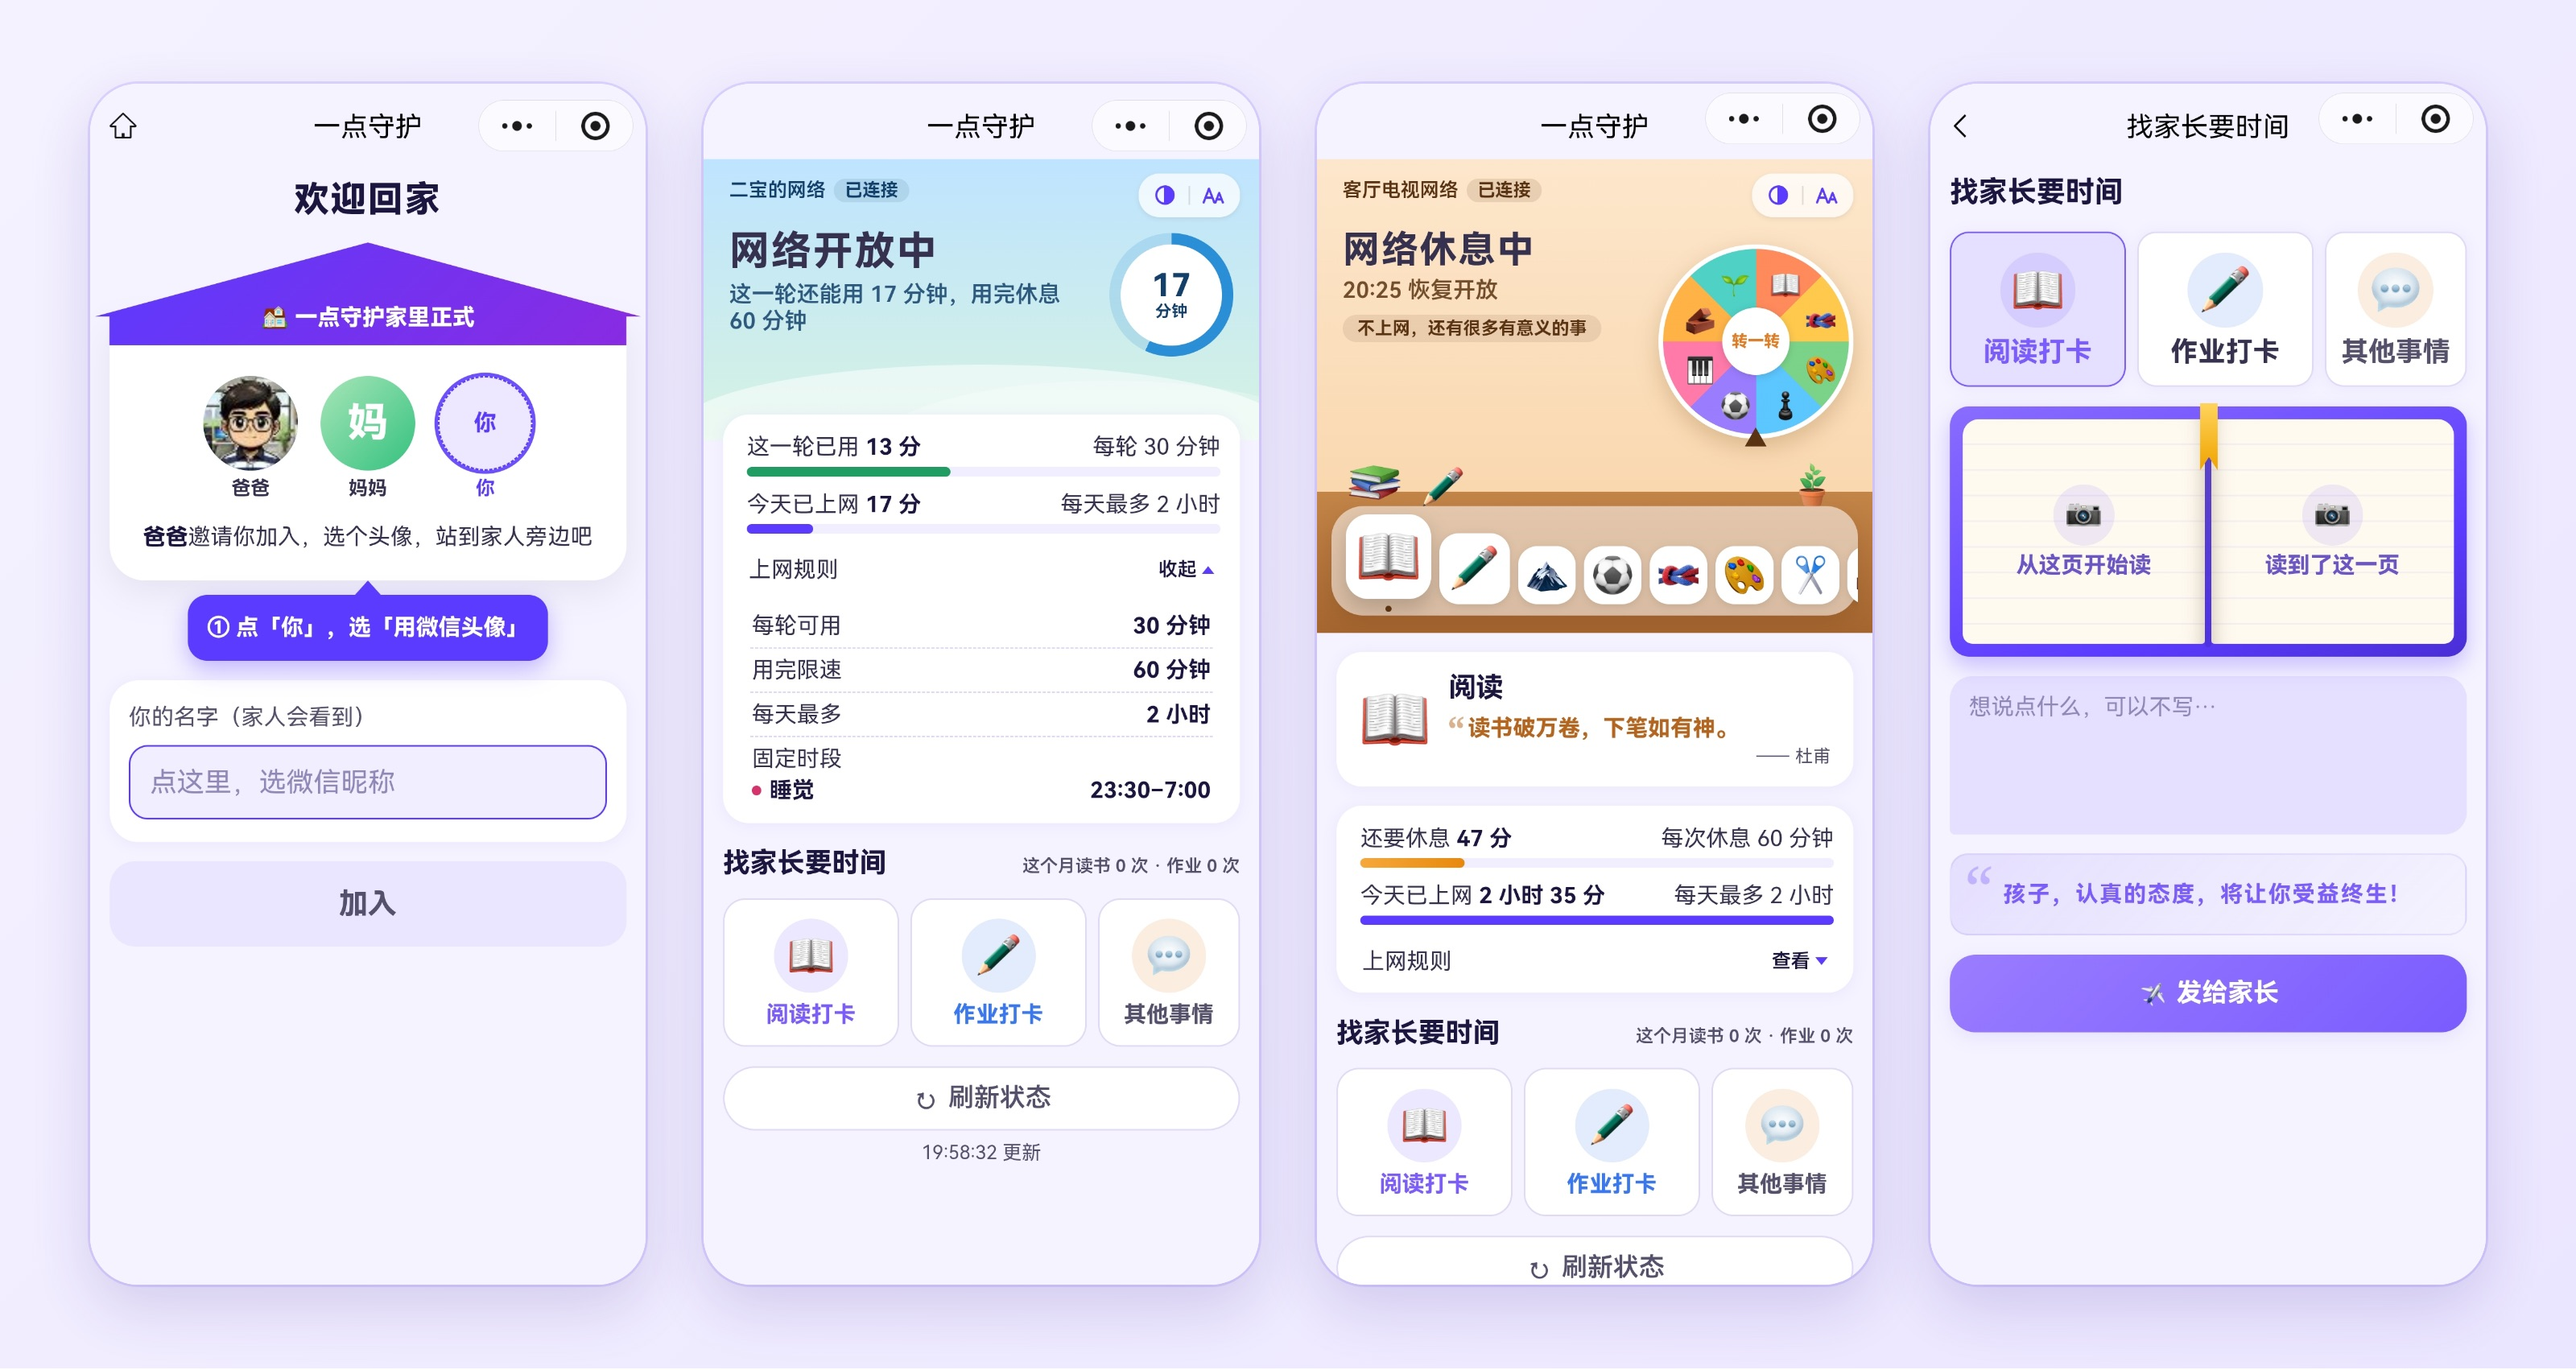
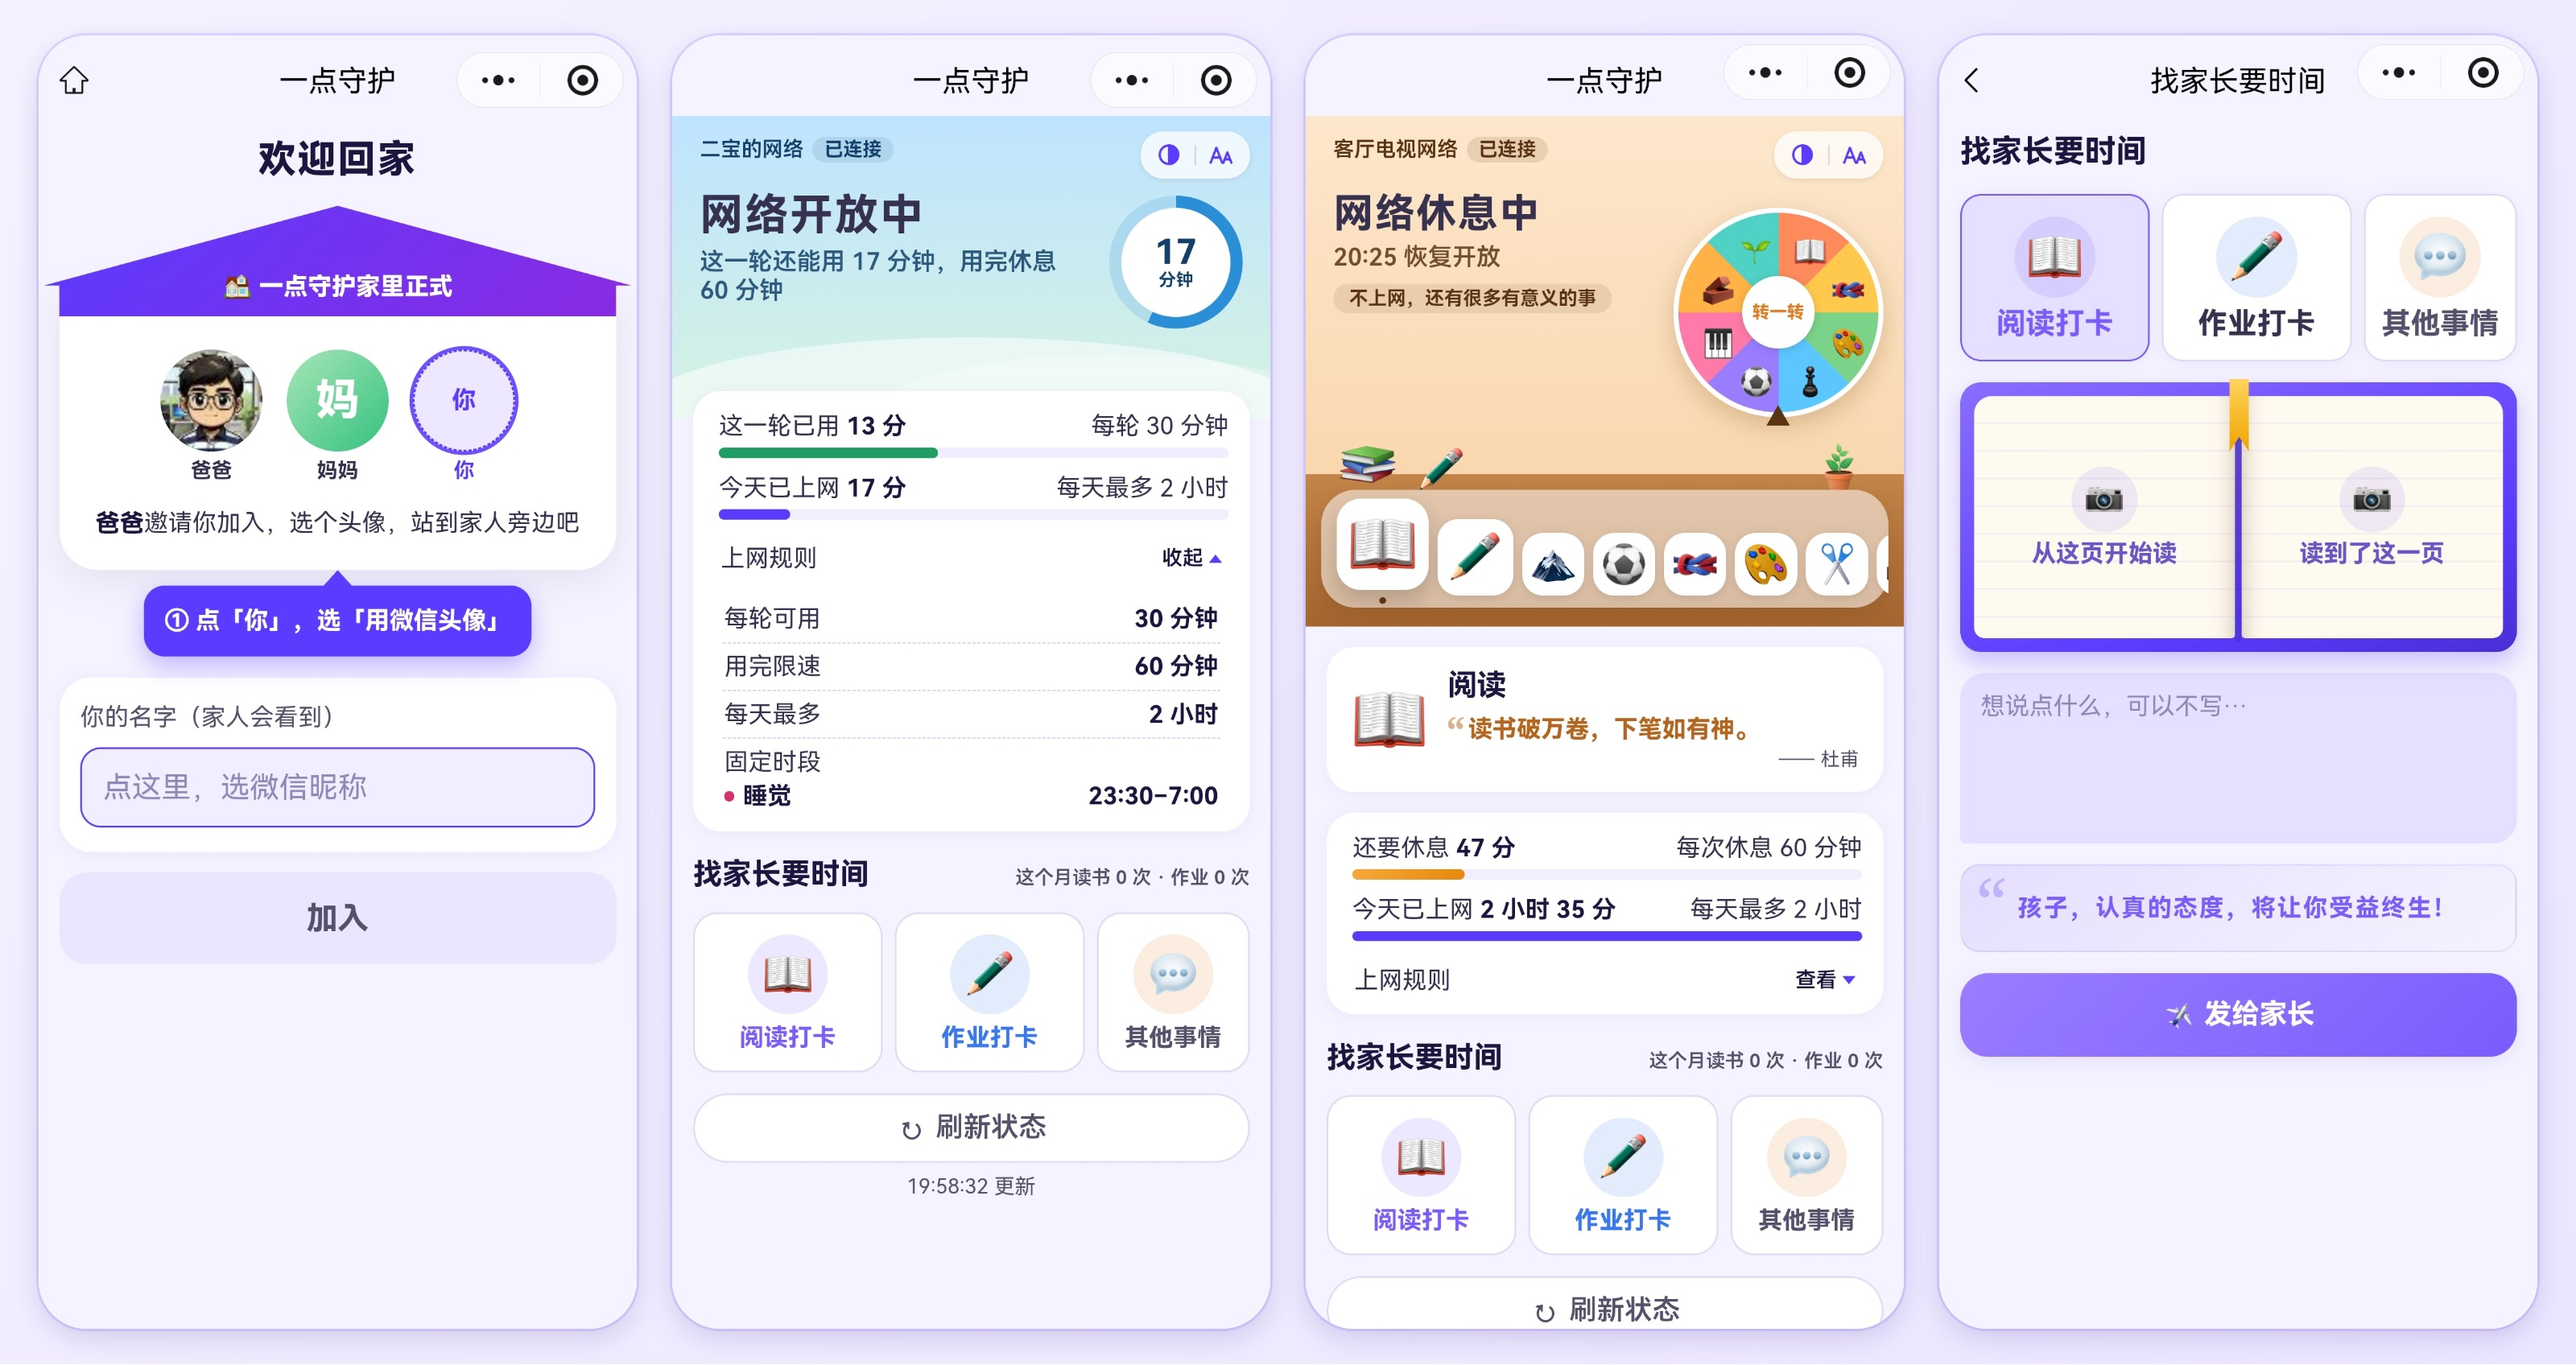
install.sh：限时计时进程不占输出管道（| tee、ssh 远程执行装完不再白等）；快速开始链接改 quick-start.html；README 在家直连说法；更新界面截图

diff --git a/README_en.md b/README_en.md
@@ -51,7 +51,7 @@ Kids can open the mini program too, to see whether their network is open or rest
 ## Peace of mind
 
 - **Time, not content**: Doti manages speed and duration only; it never looks at what kids do online.
-- **At home, no cloud involved**: at home the phone talks to the router directly. With remote management on, the cloud only receives the previous day's usage durations — no content.
+- **At home, straight to the router**: at home the phone talks to the router directly, and management actions skip the cloud; the cloud only handles sign-in, sync and the previous day's usage durations — no browsing content.
 - **WiFi passwords stay home**: parents' and kids' WiFi passwords live only on the router and your own devices.
 - **Open source, open to inspection**: the router software is this repository; anyone can check what it does.
 
@@ -72,7 +72,7 @@ The overview, detailed install and pairing steps, and how to verify the packages
 | | GitHub Pages | Faster in China |
 |---|---|---|
 | Homepage | [xautlx.github.io/doti-kids-router](https://xautlx.github.io/doti-kids-router/?lang=en) | [doti.top](https://doti.top/?lang=en) |
-| Quick Start | [xautlx.github.io/doti-kids-router/quick-start](https://xautlx.github.io/doti-kids-router/quick-start/?lang=en) | [doti.top/quick-start](https://doti.top/quick-start/?lang=en) |
+| Quick Start | [xautlx.github.io/doti-kids-router/quick-start.html](https://xautlx.github.io/doti-kids-router/quick-start.html?lang=en) | [doti.top/quick-start.html](https://doti.top/quick-start.html?lang=en) |
 
 Packages are in [Releases](../../releases) (also mirrored to the gitee repository of the same name).
 

diff --git a/README.md b/README.md
@@ -51,7 +51,7 @@
 ## 使用安心
 
 - **只管时间，不看内容**：只管网速和时长，不看孩子上网的内容。
-- **在家管理不经过云端**：在家时手机直接和路由器通信。开着远程管理时，云端每天只收到前一天的上网时长，不含上网内容。
+- **在家操作直连路由器**：在家时手机直接和路由器通信，管理操作不经过云端；云端只用于登录、同步和每天收前一天的上网时长，不含上网内容。
 - **WiFi 密码不上云**：家长和孩子的 WiFi 密码只存在家里的路由器和你们自己的设备上。
 - **程序开源可查**：路由器上的程序就是这个仓库，任何人都能检查它做了什么。
 
@@ -72,7 +72,7 @@ wget -O install.sh https://gitee.com/xautlx/doti-kids-router/raw/main/install.sh
 | | 国内访问更快 | GitHub Pages |
 |---|---|---|
 | 项目主页 | [doti.top](https://doti.top/) | [xautlx.github.io/doti-kids-router](https://xautlx.github.io/doti-kids-router/) |
-| 快速开始 | [doti.top/quick-start](https://doti.top/quick-start/) | [xautlx.github.io/doti-kids-router/quick-start](https://xautlx.github.io/doti-kids-router/quick-start/) |
+| 快速开始 | [doti.top/quick-start.html](https://doti.top/quick-start.html) | [xautlx.github.io/doti-kids-router/quick-start.html](https://xautlx.github.io/doti-kids-router/quick-start.html) |
 
 安装包在 [Releases](../../releases)（国内也可以到 gitee 同名仓库的发行版下载）。
 

diff --git a/.github/release-notes.md b/.github/release-notes.md
@@ -1,6 +1,6 @@
 ## 一点守护路由器 v{VER}
 
-安装方法、系统要求、绑定步骤、核对安装包，请看 **快速开始**：[doti.top/quick-start](https://doti.top/quick-start/)（国内访问更快）· [GitHub Pages](https://xautlx.github.io/doti-kids-router/quick-start/)
+安装方法、系统要求、绑定步骤、核对安装包，请看 **快速开始**：[doti.top/quick-start.html](https://doti.top/quick-start.html)（国内访问更快）· [GitHub Pages](https://xautlx.github.io/doti-kids-router/quick-start.html)
 
 | 文件 | 用途 |
 |---|---|
